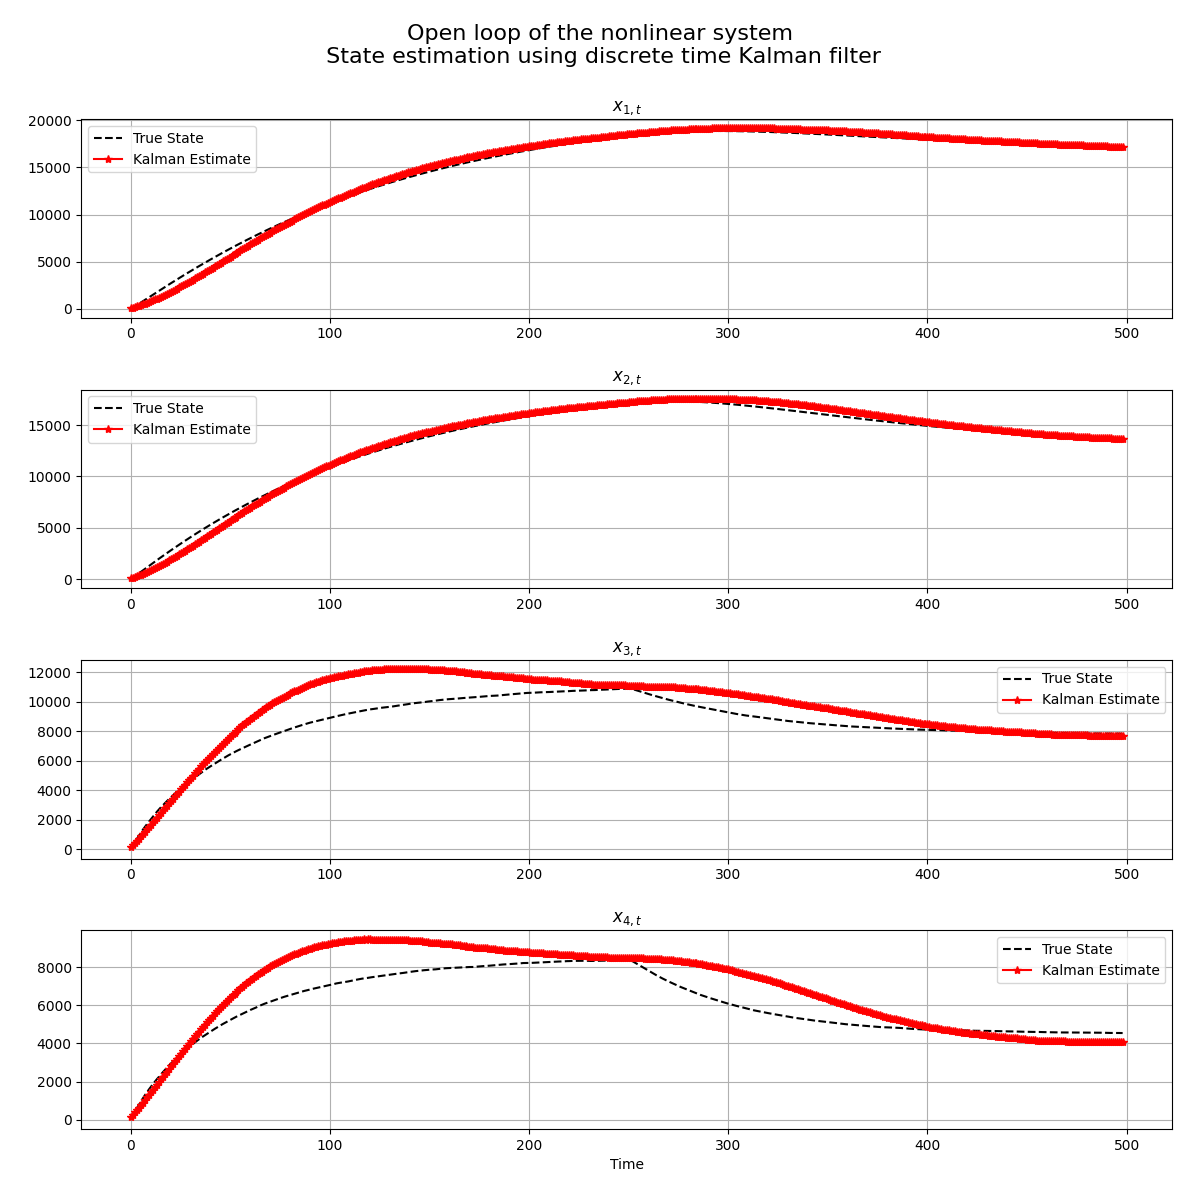
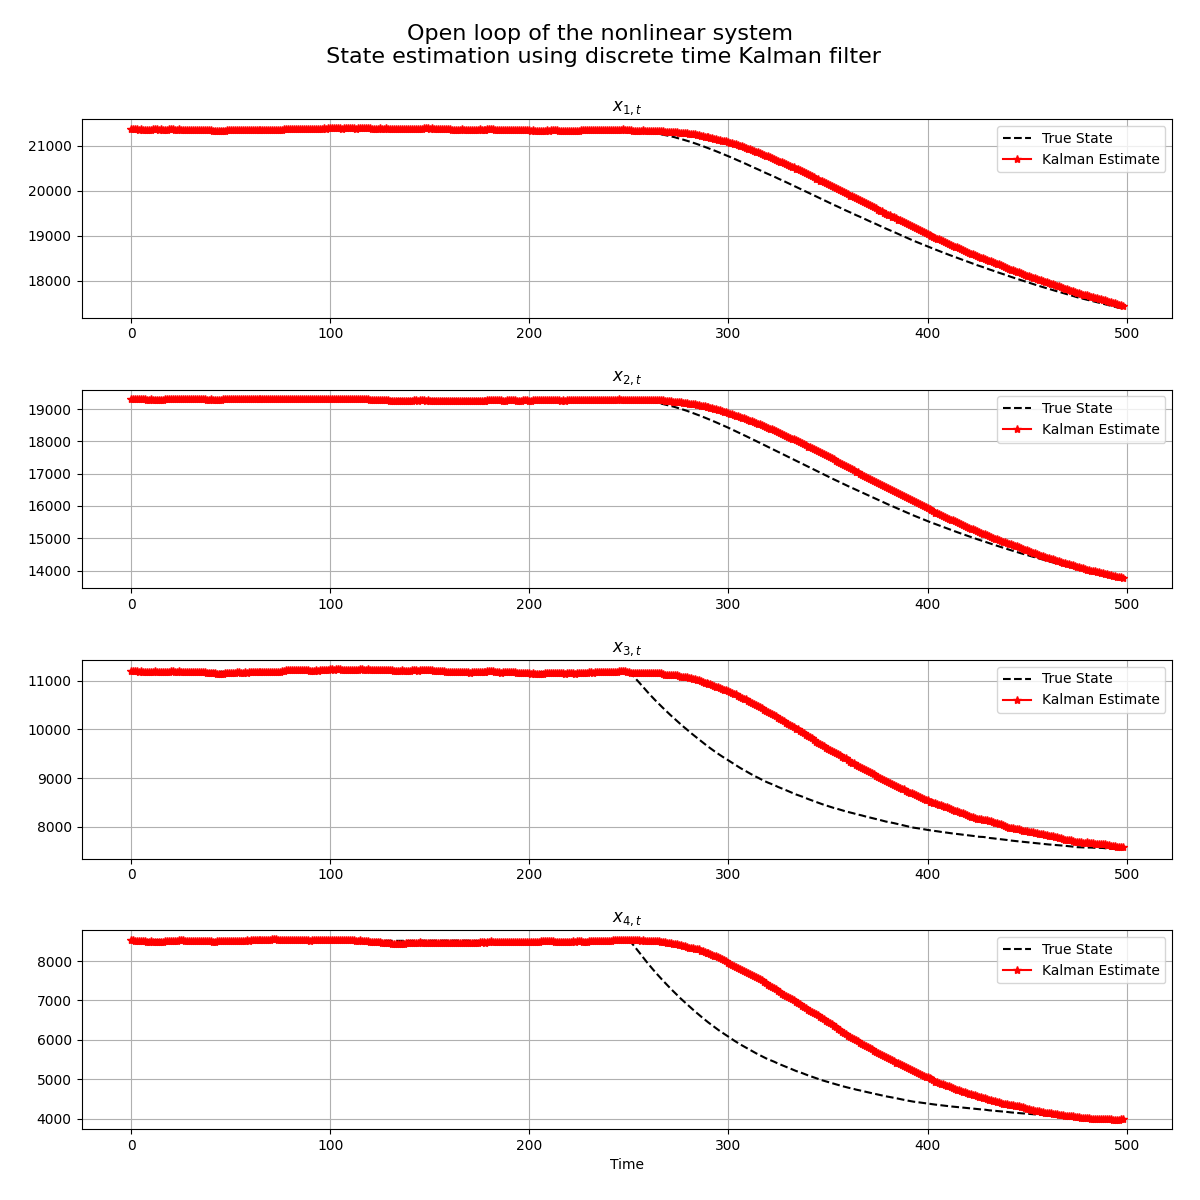
problem 6

diff --git a/problem_6_new.py b/problem_6_new.py
@@ -55,7 +55,7 @@ Ad, Bd, Ed, C, Cz = Model_Stochastic.LinearizeDiscreteTime(xs_true, ds, Ts)
 Tf = 500
 N = int(Tf/delta_t)
 t = np.arange(0, Tf, delta_t)
-linear = 0
+linear = 1
 static = 1
 Hankel = 0
 disturbance_change = 1
@@ -75,10 +75,10 @@ A_use, B_use, C_use, Q_use = augment_system(A_use, B_use, C_use, E_use, Q)
 
 P = 5*np.eye(A_use.shape[0])  # Initial estimate error covariance 
 
-xt = x0.copy()-xs_true.copy()
+xt = xs_true.copy()-xs_true.copy()
 x0 = np.concatenate((x0, ds))
 xs = np.concatenate((xs_true, ds))
-xt_hat = x0.copy()-xs.copy()
+xt_hat = xs.copy()-xs.copy()
 
 X = np.zeros([N-1,4])
 Z = np.zeros([N-1,2])
